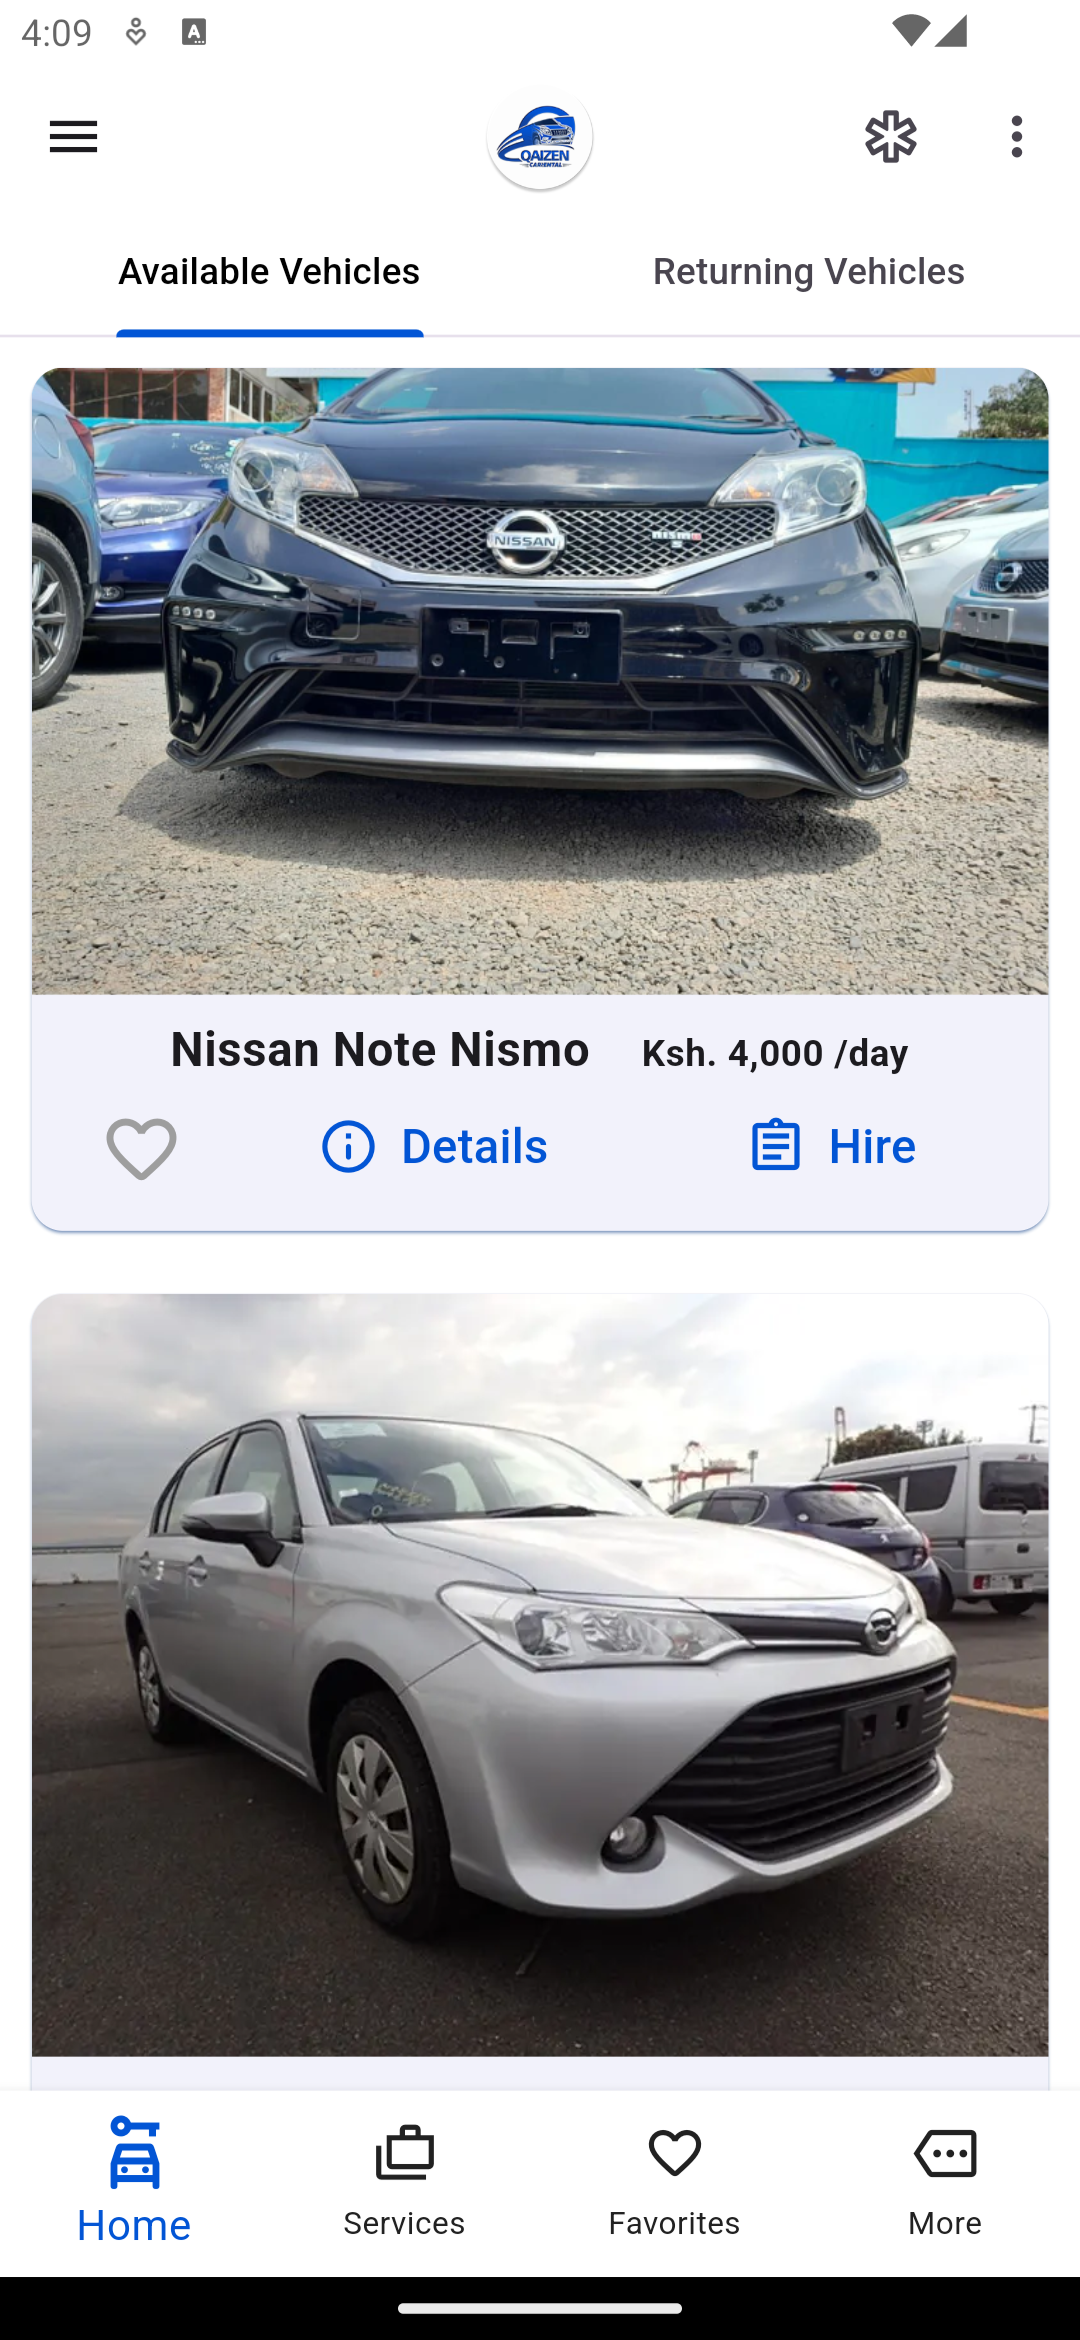
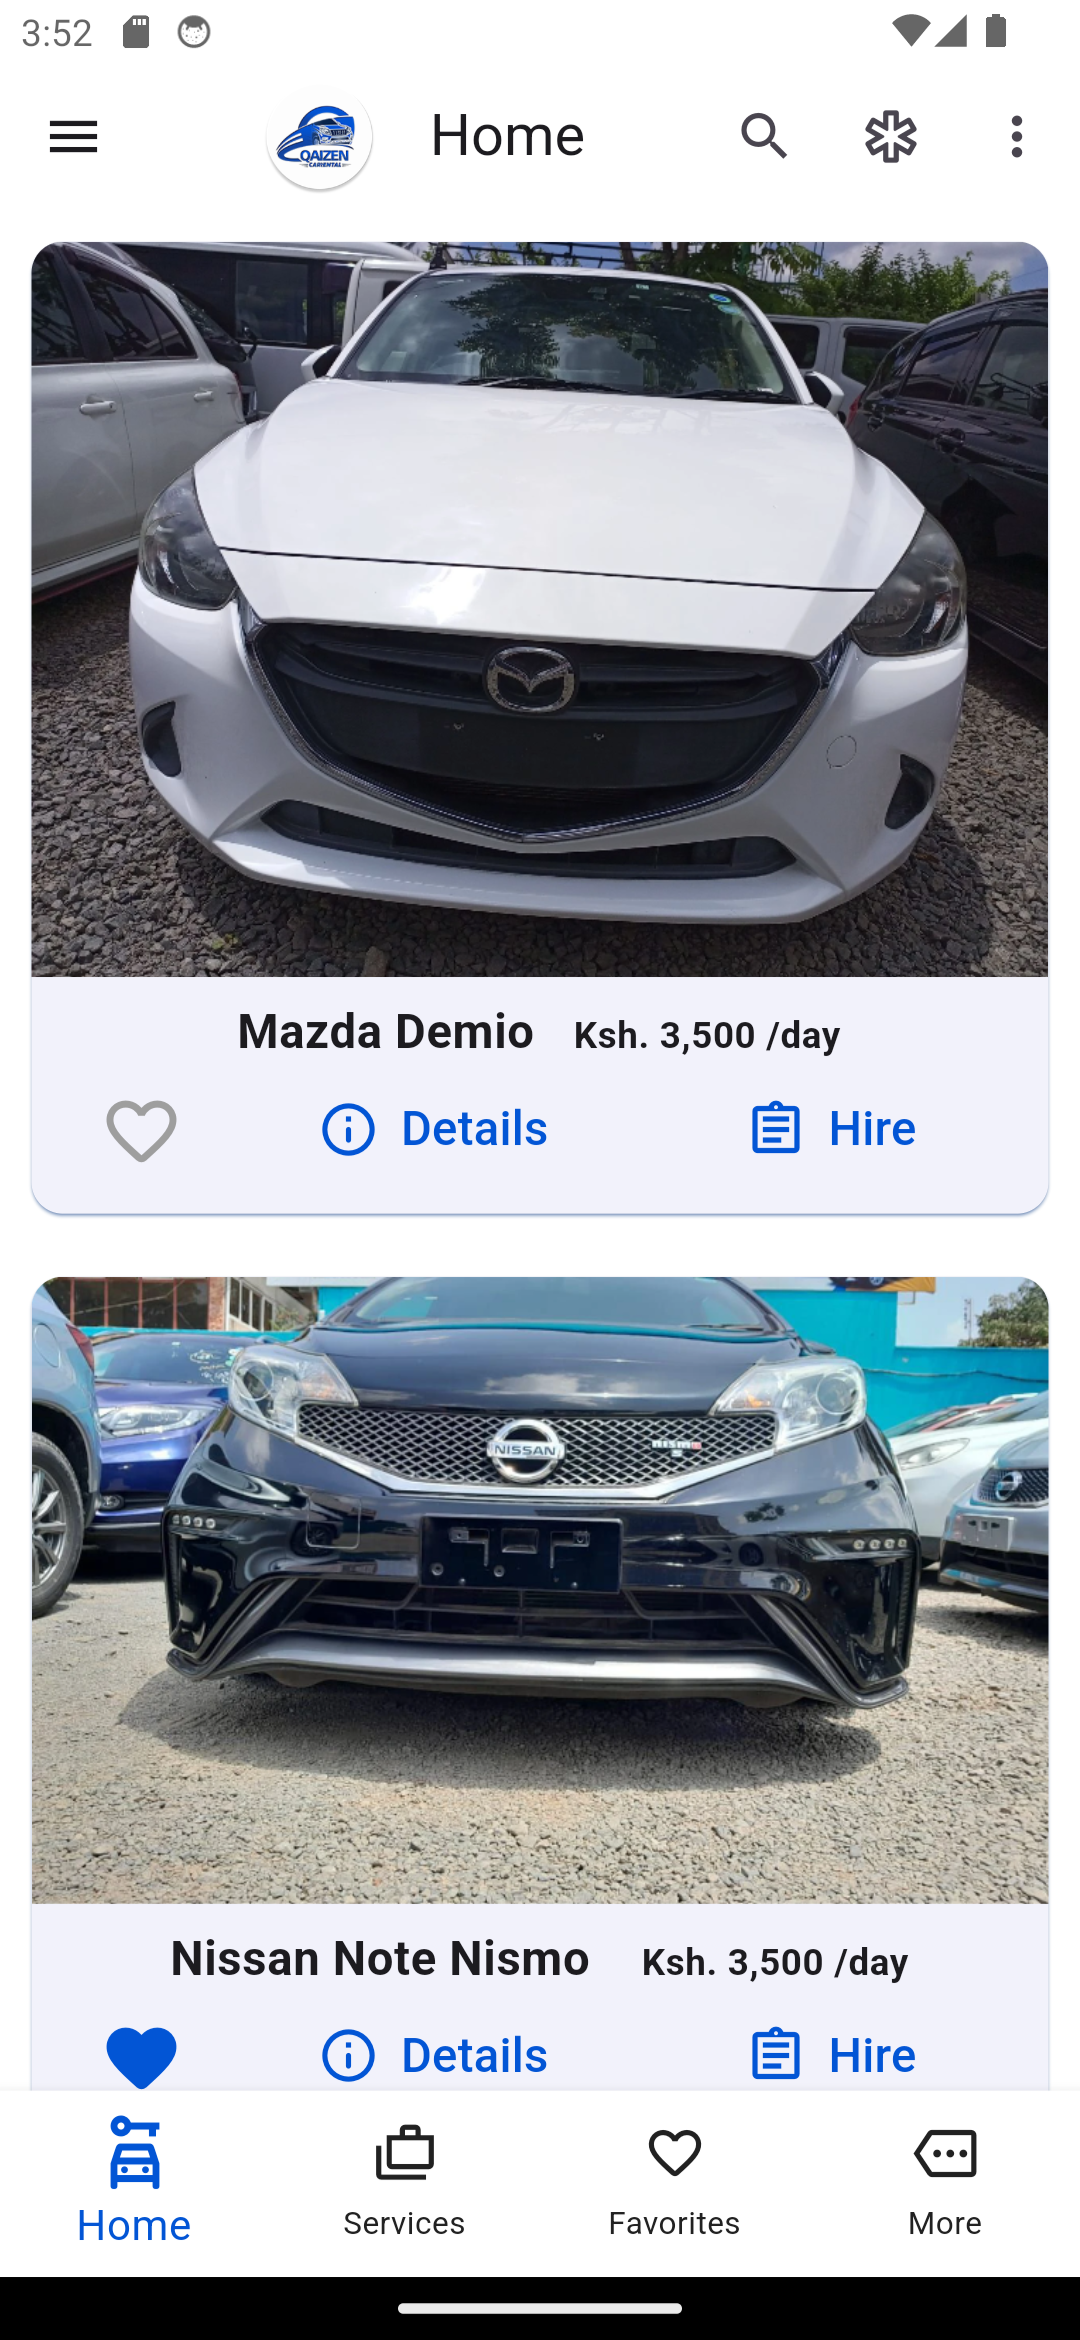
fixed some bugs

diff --git a/lib/ui/widgets/vehicle_cards.dart b/lib/ui/widgets/vehicle_cards.dart
@@ -115,10 +115,6 @@ Widget availableVehicleCard({
                     padding: const EdgeInsets.all(8.0),
                     child: Row(
                       children: [
-                        Icon(
-                          Icons.info_outline_rounded,
-                          color: Theme.of(context).primaryColor,
-                        ),
                         const SizedBox(width: 8),
                         Text('Details',
                             style: TextStyle(
@@ -229,10 +225,6 @@ Widget favCard({
                     padding: const EdgeInsets.all(8.0),
                     child: Row(
                       children: [
-                        Icon(
-                          Icons.info_outline_rounded,
-                          color: Theme.of(context).primaryColor,
-                        ),
                         const SizedBox(width: 8),
                         Text('Details',
                             style: TextStyle(
@@ -260,172 +252,6 @@ Widget favCard({
                       ],
                     ),
                   ),
-                ),
-              ],
-            ),
-            const SizedBox(height: 8),
-          ],
-        ),
-      ),
-    );
-  } else {
-    return const SizedBox();
-  }
-}
-
-Widget returningVehicleCard({
-  required context,
-  required id,
-  required image,
-  required name,
-  required price,
-  required availabilityNotification,
-  required onClickNotifyMe,
-  required onClickDetails,
-  required availability,
-}) {
-  if (!availability) {
-    return Padding(
-      padding: const EdgeInsets.all(8.0),
-      child: Card(
-        child: Column(
-          children: [
-            ClipRRect(
-              borderRadius: BorderRadius.circular(12.0),
-              child: CachedNetworkImage(
-                fit: BoxFit.fill,
-                imageUrl: image,
-                progressIndicatorBuilder: (context, url, downloadProgress) =>
-                    Center(
-                  child: Padding(
-                    padding: const EdgeInsets.all(8.0),
-                    child: CircularProgressIndicator(
-                      value: downloadProgress.progress,
-                      valueColor: AlwaysStoppedAnimation<Color>(
-                          Theme.of(context).primaryColor),
-                    ),
-                  ),
-                ),
-              ),
-            ),
-            const SizedBox(height: 8),
-            Text.rich(TextSpan(
-                text: name,
-                style:
-                    const TextStyle(fontWeight: FontWeight.bold, fontSize: 18),
-                children: <TextSpan>[
-                  TextSpan(
-                    text: '    Ksh. $price /day',
-                    style: const TextStyle(
-                      fontSize: 14,
-                      fontWeight: FontWeight.bold,
-                    ),
-                  )
-                ])),
-            Row(
-              mainAxisAlignment: MainAxisAlignment.spaceEvenly,
-              children: [
-                LikeButton(
-                  isLiked: favoriteVehicles.contains(id),
-                  bubblesColor: BubblesColor(
-                      dotPrimaryColor: Theme.of(context).primaryColor,
-                      dotSecondaryColor: Colors.white),
-                  circleColor: CircleColor(
-                    start: Theme.of(context).primaryColor,
-                    end: Colors.white,
-                  ),
-                  likeBuilder: (bool isLiked) {
-                    return Icon(
-                      Icons.favorite,
-                      color: isLiked
-                          ? Theme.of(context).primaryColor
-                          : Colors.grey,
-                      size: 32,
-                    );
-                  },
-                  onTap: ((isLiked) async {
-                    if (!isLiked) {
-                      favoriteVehicles.add(id);
-                    } else {
-                      favoriteVehicles.remove(id);
-                    }
-                    Map<String, dynamic> data = {"favorites": favoriteVehicles};
-                    await FirebaseFirestore.instance
-                        .collection('users')
-                        .doc(getUserName())
-                        .update(data)
-                        .whenComplete(() {
-                      String likeMessage = "";
-                      isLiked
-                          ? likeMessage = "removed from"
-                          : likeMessage = "added to";
-
-                      showSnackbar(
-                          context: context,
-                          duration: 3,
-                          message: "$name $likeMessage to favorites");
-                    });
-
-                    return !isLiked;
-                    return null;
-                  }),
-                ),
-                MaterialButton(
-                  onPressed: onClickDetails,
-                  child: Padding(
-                    padding: const EdgeInsets.all(8.0),
-                    child: Row(
-                      children: [
-                        Icon(
-                          Icons.info_outline_rounded,
-                          color: Theme.of(context).primaryColor,
-                        ),
-                        const SizedBox(width: 8),
-                        Text('Details',
-                            style: TextStyle(
-                                fontSize: 18,
-                                color: Theme.of(context).primaryColor))
-                      ],
-                    ),
-                  ),
-                ),
-                LikeButton(
-                  isLiked: availabilityNotification,
-                  bubblesColor: BubblesColor(
-                      dotPrimaryColor: Theme.of(context).primaryColor,
-                      dotSecondaryColor: Colors.white),
-                  circleColor: CircleColor(
-                    start: Theme.of(context).primaryColor,
-                    end: Colors.white,
-                  ),
-                  likeBuilder: (bool availabilityNotification) {
-                    return Icon(
-                      Icons.notification_add,
-                      color: availabilityNotification
-                          ? Theme.of(context).primaryColor
-                          : Colors.grey,
-                      size: 32,
-                    );
-                  },
-                  onTap: ((availabilityNotification) async {
-                    ///add the vehicle to pending notifications
-                    String notifyMessage = "";
-                    availabilityNotification
-                        ? notifyMessage = "not get"
-                        : notifyMessage = "get";
-
-                    showSnackbar(
-                        context: context,
-                        duration: 2,
-                        message: "Feature under development");
-
-                    // showSnackbar(
-                    //     context: context,
-                    //     duration: 2,
-                    //     message:
-                    //         "You will $notifyMessage a notification when $name is available");
-                    return !availabilityNotification;
-                  }),
                 ),
               ],
             ),

diff --git a/lib/ui/pages/home_screen.dart b/lib/ui/pages/home_screen.dart
@@ -276,11 +276,12 @@ class _HomeScreenState extends State<HomeScreen> with TickerProviderStateMixin {
         title: _titles[_currentPage],
         centerTitle: true,
         actions: [
-          IconButton(
-              tooltip: "Search",
-              onPressed: () =>
-                  nextPage(context: context, page: const SearchPage()),
-              icon: const Icon(Icons.search)),
+          if (_currentPage == 0)
+            IconButton(
+                tooltip: "Search",
+                onPressed: () =>
+                    nextPage(context: context, page: const SearchPage()),
+                icon: const Icon(Icons.search)),
           IconButton(
             onPressed: () =>
                 nextPage(context: context, page: const Emergency()),

diff --git a/lib/ui/pages/details.dart b/lib/ui/pages/details.dart
@@ -36,7 +36,7 @@ Widget getVehicleImages(image) {
             ),
           ),
         ),
-        errorWidget: (context, url, error) => const Icon(Icons.error_outline),
+        errorWidget: (context, url, error) => const SizedBox(),
       ),
     ),
   );
@@ -151,7 +151,7 @@ class _VehicleDetailsPageState extends State<VehicleDetailsPage> {
                     Text.rich(
                       TextSpan(
                           text: 'Ksh. ',
-                          style: TextStyle(fontSize: 16),
+                          style: const TextStyle(fontSize: 16),
                           children: <TextSpan>[
                             TextSpan(text: document.get('priceMonth')),
                             const TextSpan(text: ' /month')

diff --git a/lib/ui/pages/search_page.dart b/lib/ui/pages/search_page.dart
@@ -67,7 +67,7 @@ class _SearchPageState extends State<SearchPage> {
                     icon: const Icon(Icons.clear),
                   ),
                   enabledBorder: OutlineInputBorder(
-                    borderRadius: BorderRadius.circular(48.0),
+                    borderRadius: BorderRadius.circular(24.0),
                   ),
                   focusedBorder: OutlineInputBorder(
                     borderSide: BorderSide(
